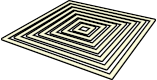
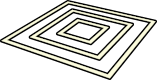
Added configuration items for bedlevel prints

diff --git a/Resources/QML/QT6/BedLevelPrintDialog.qml b/Resources/QML/QT6/BedLevelPrintDialog.qml
@@ -80,6 +80,46 @@ UM.Dialog
                 text: "The type of bed level print to generate."
                 visible: bed_level_print_type_mouse_area.containsMouse
             }
+
+            UM.Label
+            {
+                text: "Bed Inset %"
+            }
+            Cura.TextField
+            {
+                Layout.preferredWidth: numberInputWidth
+                validator: RegularExpressionValidator { regularExpression: /[0-9]*/ }
+                text: manager.bedInsetPercentageStr
+                onTextChanged: if (manager.bedInsetPercentageStr != text) manager.bedInsetPercentageStr = text
+            }
+
+            UM.Label
+            {
+                text: "Number of Squares"
+                visible: manager.bedLevelPrintType == "Concentric Squares"
+            }
+            Cura.TextField
+            {
+                Layout.preferredWidth: numberInputWidth
+                validator: RegularExpressionValidator { regularExpression: /[0-9]*/ }
+                text: manager.numberOfSquaresStr
+                onTextChanged: if (manager.numberOfSquaresStr != text) manager.numberOfSquaresStr = text
+                visible: manager.bedLevelPrintType == "Concentric Squares"
+            }
+
+            UM.Label
+            {
+                text: "Size in Cells"
+                visible: manager.bedLevelPrintType == "Grid"
+            }
+            Cura.TextField
+            {
+                Layout.preferredWidth: numberInputWidth
+                validator: RegularExpressionValidator { regularExpression: /[0-9]*/ }
+                text: manager.cellSizeStr
+                onTextChanged: if (manager.cellSizeStr != text) manager.cellSizeStr = text
+                visible: manager.bedLevelPrintType == "Grid"
+            }
         }
     }
 

diff --git a/Controllers/BedLevelPrintContoller.py b/Controllers/BedLevelPrintContoller.py
@@ -25,6 +25,7 @@ class BedLevelPrintController(QObject):
         {'value': 'X in Square', 'icon': 'bedlevelprint_x_in_square_icon.png'}, 
         {'value': 'Circle in Square', 'icon': 'bedlevelprint_circle_in_square_icon.png'}, 
         {'value': 'Perimeter', 'icon': 'bedlevelprint_perimeter_icon.png'}, 
+        {'value': 'Grid', 'icon': 'bedlevelprint_grid_icon.png'}, 
         {'value': 'Five Circles', 'icon': 'bedlevelprint_five_circles_icon.png'}, 
     ]
 
@@ -81,6 +82,51 @@ class BedLevelPrintController(QObject):
     @pyqtProperty(str, notify=bedLevelPrintTypeChanged, fset=setBedLevelPrintType)
     def bedLevelPrintType(self)->str:
         return self._bedLevelPrintType
+
+
+
+    # The selected bed inset percentage
+    _bedInsetPercentageStr = "10"
+
+    bedInsetPercentageStrChanged = pyqtSignal()
+
+    def setBedInsetPercentageStr(self, value)->None:
+        self._bedInsetPercentageStr = value
+        self.bedInsetPercentageStrChanged.emit()
+
+    @pyqtProperty(str, notify=bedInsetPercentageStrChanged, fset=setBedInsetPercentageStr)
+    def bedInsetPercentageStr(self)->str:
+        return self._bedInsetPercentageStr
+
+
+
+    # The selected number of squares
+    _numberOfSquaresStr = "7"
+
+    numberOfSquaresStrChanged = pyqtSignal()
+
+    def setNumberOfSquaresStr(self, value)->None:
+        self._numberOfSquaresStr = value
+        self.numberOfSquaresStrChanged.emit()
+
+    @pyqtProperty(str, notify=numberOfSquaresStrChanged, fset=setNumberOfSquaresStr)
+    def numberOfSquaresStr(self)->str:
+        return self._numberOfSquaresStr
+
+
+
+    # The selected cell size
+    _cellSizeStr = "4"
+
+    cellSizeStrChanged = pyqtSignal()
+
+    def setCellSizeStr(self, value)->None:
+        self._cellSizeStr = value
+        self.cellSizeStrChanged.emit()
+
+    @pyqtProperty(str, notify=cellSizeStrChanged, fset=setCellSizeStr)
+    def cellSizeStr(self)->str:
+        return self._cellSizeStr
 
 
 
@@ -164,6 +210,10 @@ class BedLevelPrintController(QObject):
  
         containerStack = Application.getInstance().getGlobalContainerStack()
 
+        bed_inset_percent = int(self.bedInsetPercentageStr)
+        number_of_squares = int(self.numberOfSquaresStr)
+        cell_size = int(self.cellSizeStr)
+
         # Query the bed size
         bed_width = containerStack.getProperty('machine_width', 'value')
         bed_depth = containerStack.getProperty('machine_depth', 'value')
@@ -181,6 +231,9 @@ class BedLevelPrintController(QObject):
         openScadParameters ['Print_Area_Depth'] = bed_depth
         openScadParameters ['Line_Width'] = line_width
         openScadParameters ['Line_Height'] = layer_height
+        openScadParameters ['Print_Bed_Inset'] = bed_inset_percent
+        openScadParameters ['Concentric_Ring_Count'] = number_of_squares
+        openScadParameters ['Grid_Cell_Count'] = cell_size
 
         # Determine the tower name
         towerName = f'Auto-Generated Bed Level Print {bed_width}x{bed_depth}'

diff --git a/AutoTowersGenerator.py b/AutoTowersGenerator.py
@@ -333,14 +333,14 @@ class AutoTowersGenerator(QObject, Extension):
         # Stop listening for machine changes
         try:
             CuraApplication.getInstance().getMachineManager().globalContainerChanged.disconnect(self._onMachineChanged)
-        except:
-            # Not sure how to handle this yet
+        except Exception as e:
+            Logger.log('e', e)
             pass
 
         try:
             CuraApplication.getInstance().getMachineManager().activeMachine.propertyChanged.disconnect(self._onPrintSettingChanged)
         except:
-            # Not sure how to handle this yet
+            Logger.log('e', e)
             pass
 
 
@@ -476,9 +476,9 @@ class AutoTowersGenerator(QObject, Extension):
     def _onMachineChanged(self)->None:
         ''' Listen for machine changes made after an Auto Tower is generated 
             In this case, the Auto Tower needs to be removed and regenerated '''
-
-        self._removeAutoTower()
-        Message('The Auto Tower has been removed because the active machine was changed', title=self._pluginName).show()        
+        if self._autoTowerGenerated:
+            self._removeAutoTower()
+            Message('The Auto Tower has been removed because the active machine was changed', title=self._pluginName).show()        
 
 
 
@@ -486,9 +486,10 @@ class AutoTowersGenerator(QObject, Extension):
         ''' Listen for setting changes made after an Auto Tower is generated '''
 
         # Remove the tower in response to settings changes
-        self._removeAutoTower()
-        setting_label = CuraApplication.getInstance().getMachineManager().activeMachine.getProperty(setting_key, 'label')
-        Message(f'The Auto Tower has been removed because the Cura setting "{setting_label}" has changed since the tower was generated', title=self._pluginName).show()
+        if self._autoTowerGenerated:
+            self._removeAutoTower()
+            setting_label = CuraApplication.getInstance().getMachineManager().activeMachine.getProperty(setting_key, 'label')
+            Message(f'The Auto Tower has been removed because the Cura setting "{setting_label}" has changed since the tower was generated', title=self._pluginName).show()
                 
 
 
